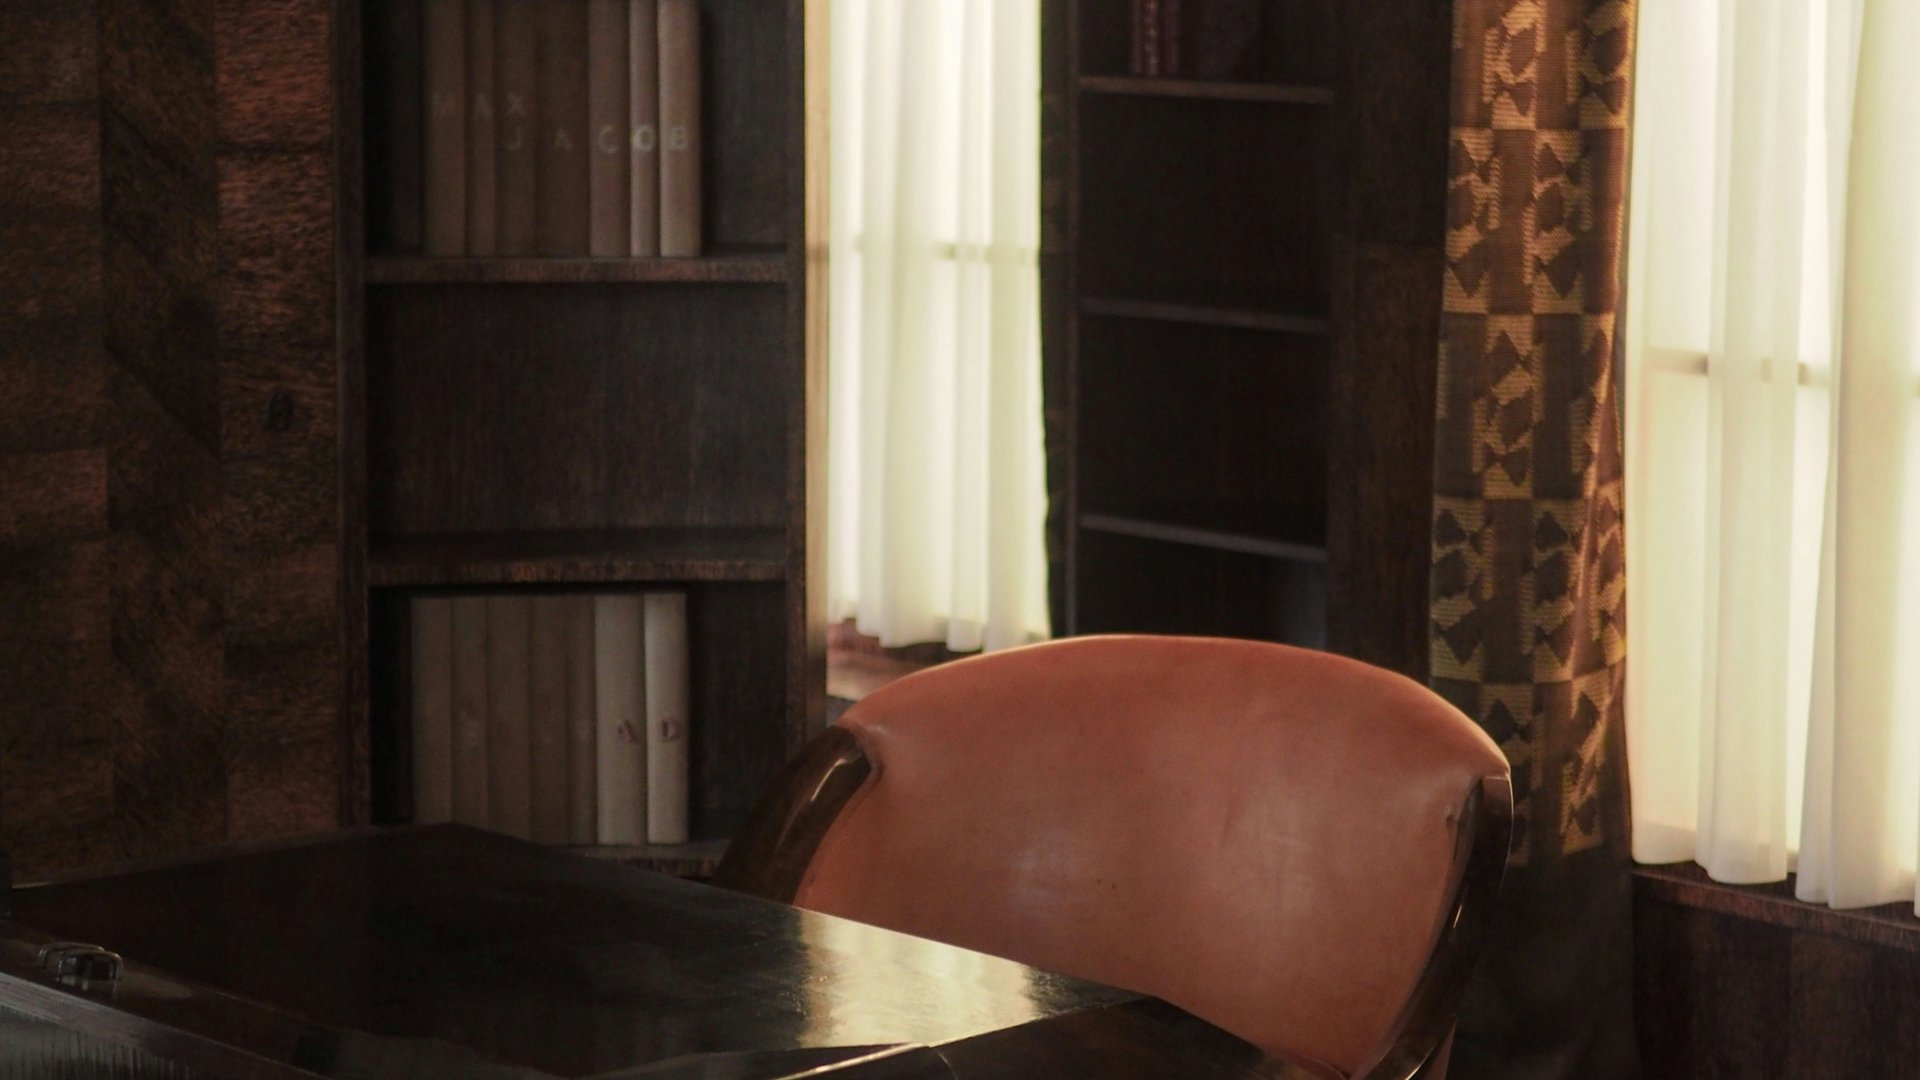
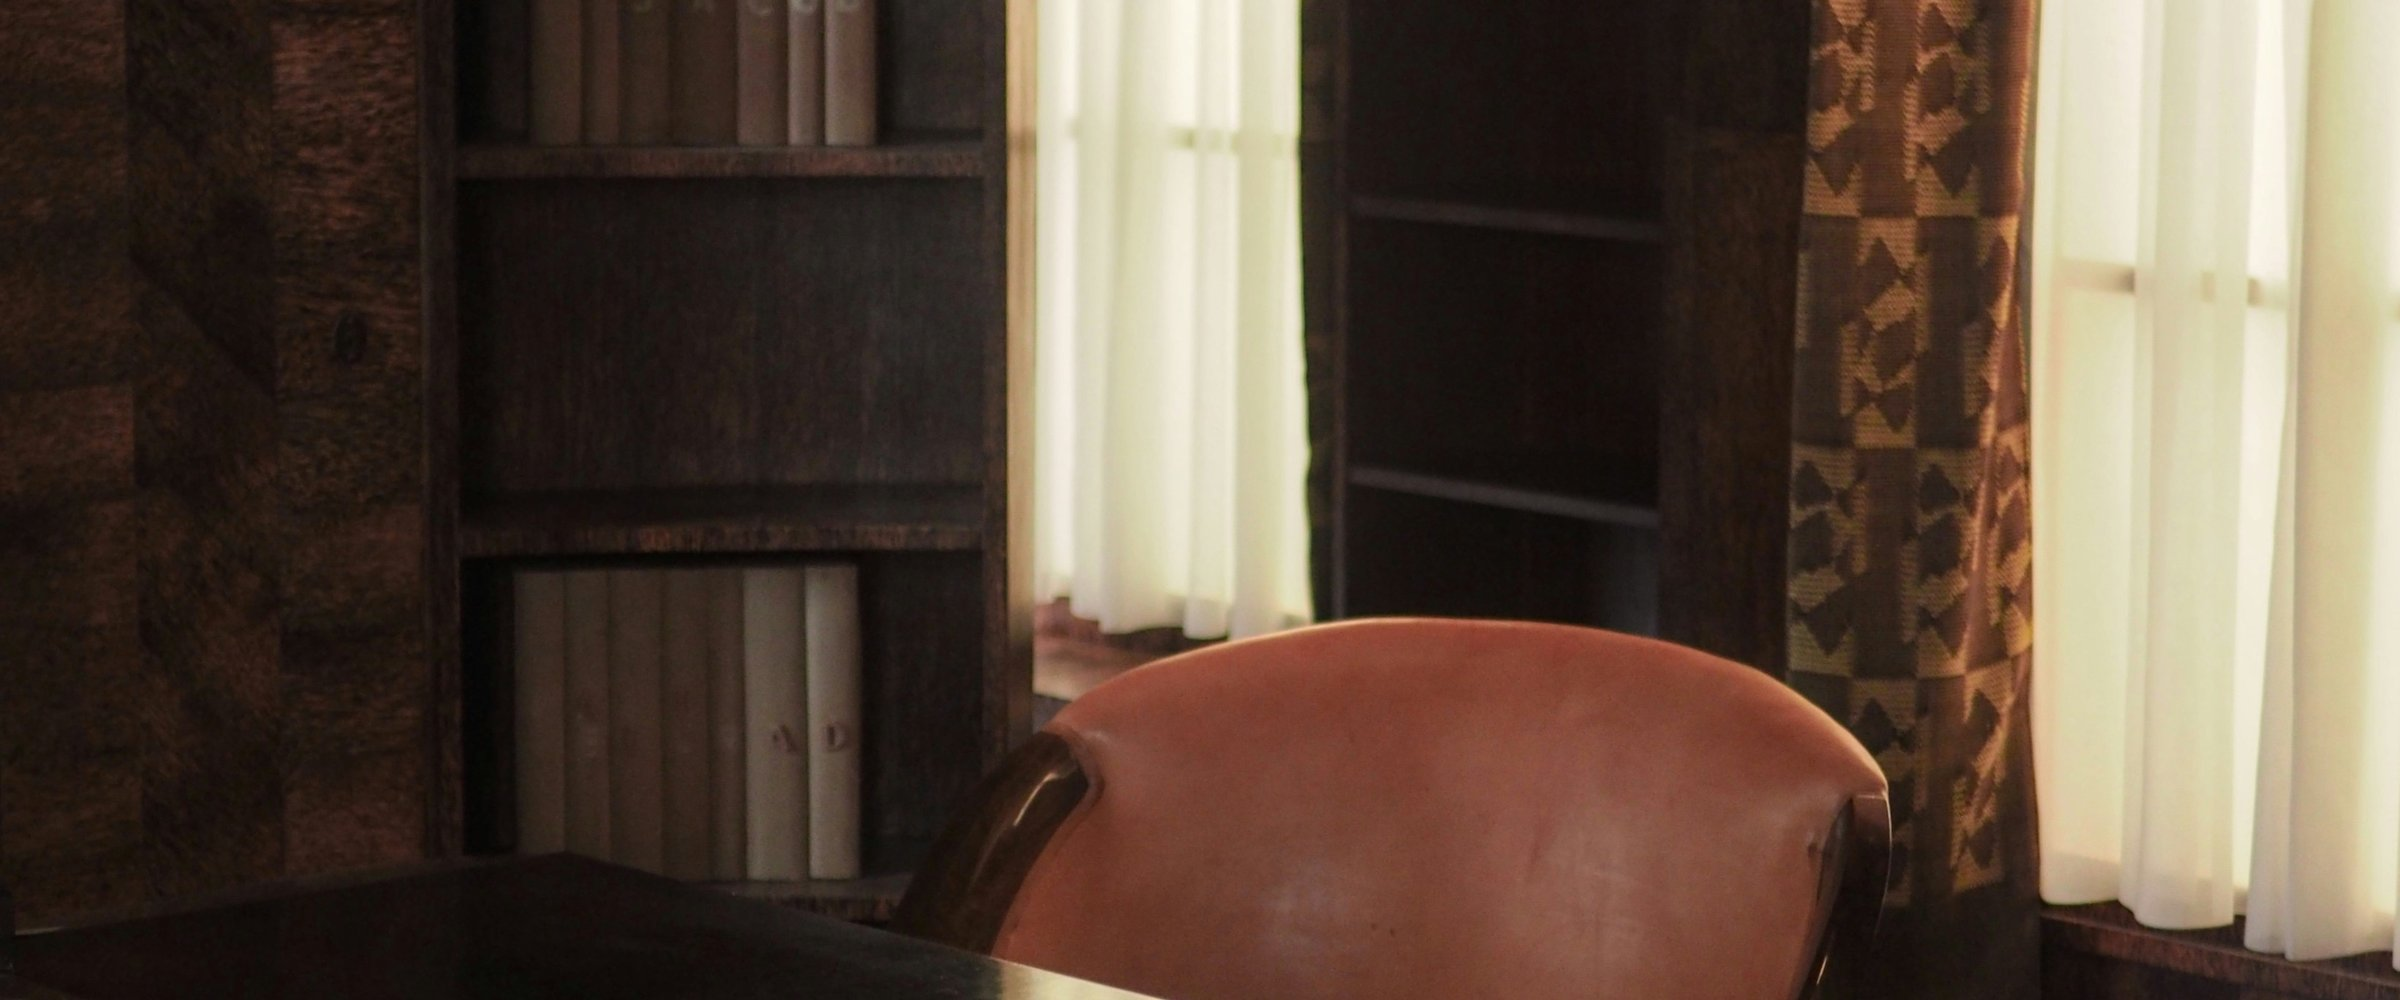
Hero görselindeki aşırı zoom/kırpma sorununu düzelt
Kök neden: hero kutusu h-[70vh] ile render edildiğinde ekranda ~2.3:1
orana denk geliyordu ama görsel dosyası 16:9 (1.78:1) kırpılmıştı.
object-cover bu uyumsuzluğu telafi etmek için görseli dikeyde agresif
şekilde kırpıp 'zoom yapılmış' bir görünüm veriyordu.

Çözüm: kaynak dosya 2.4:1 (2400x1000) oranında yeniden kırpıldı ve
konteyner tam olarak bu orana (aspect-[12/5]) ayarlandı — artık
object-cover ekstra kırpma yapmıyor, görsel olduğu gibi gösteriliyor.
max-h-[600px] tipik masaüstü genişliklerinde (~1440px) oranı tam
koruyacak şekilde hesaplandı.

Fotoğrafın kendisi kullanıcı onayıyla değişmedi (koyu ahşap ofis + deri
sandalye), sadece kırpma/render oranı düzeltildi.

diff --git a/components/home/Hero.tsx b/components/home/Hero.tsx
@@ -14,8 +14,13 @@ export default function Hero() {
   return (
     <>
       {/* Full-bleed photo band — no text overlay, mirrors the reference
-          site's photo-first hero. Headline/CTA live in the section below. */}
-      <div className="relative h-[70vh] max-h-[640px] w-full bg-ink">
+          site's photo-first hero. Headline/CTA live in the section below.
+          aspect-[12/5] matches the source photo's own crop (2400x1000)
+          exactly, so object-cover never has to crop further/"zoom" — a
+          mismatched container ratio (e.g. vh-based height) is what caused
+          that previously. Keep this ratio in sync with the file's actual
+          dimensions if it's ever re-cropped. */}
+      <div className="relative aspect-[12/5] max-h-[600px] w-full bg-ink">
         <Image
           src={HERO_IMAGE}
           alt="Kosova Hukuk Bürosu ofisi"
